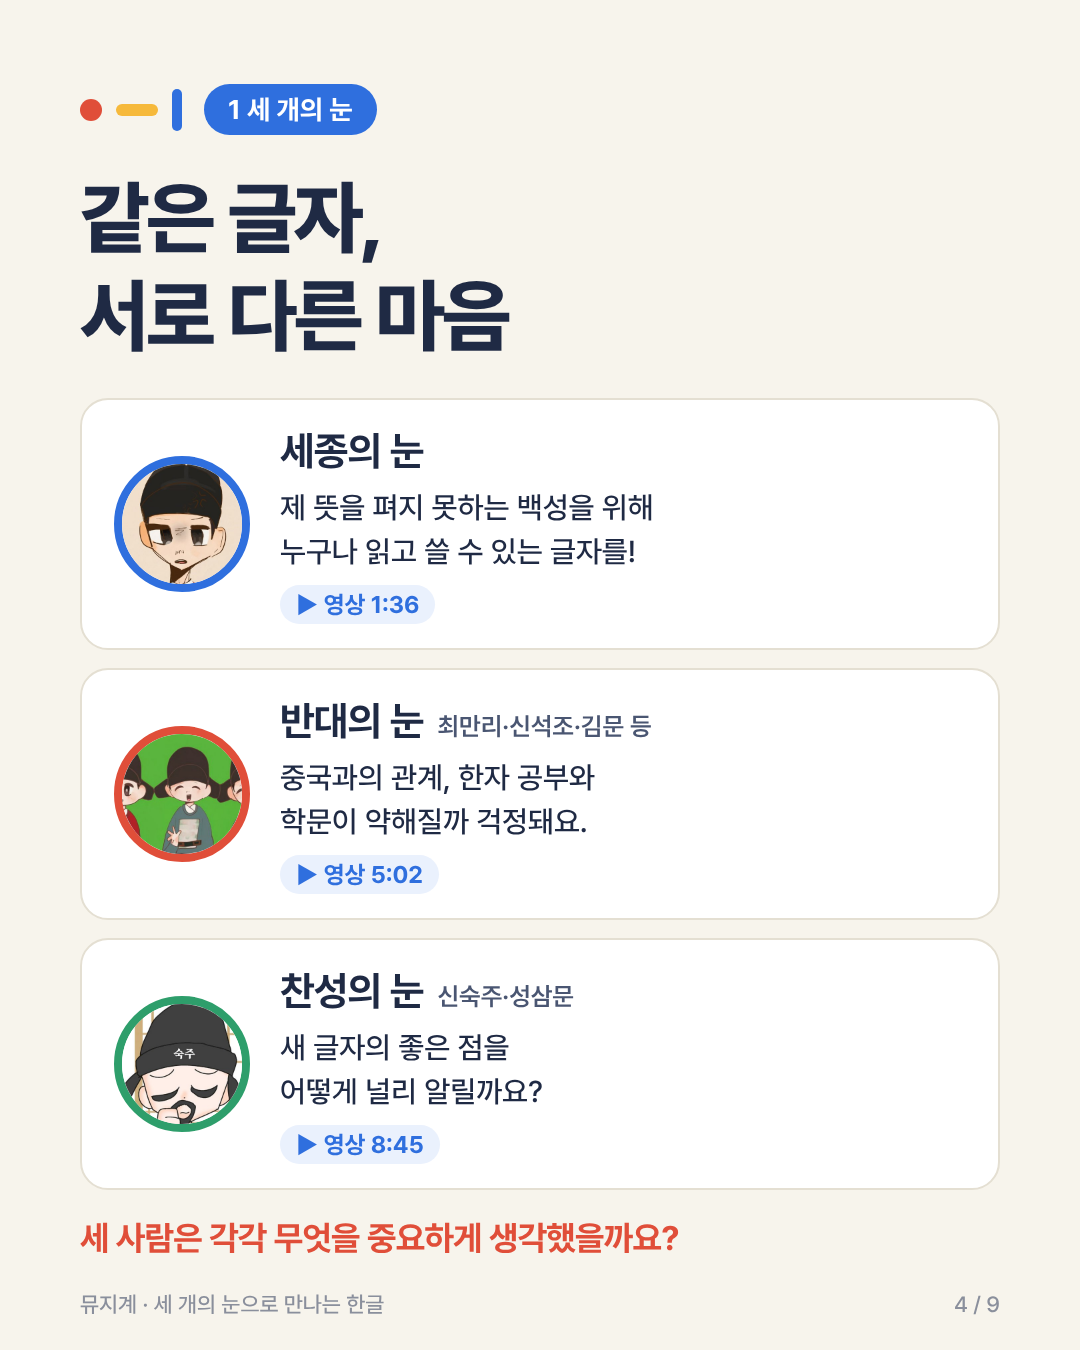
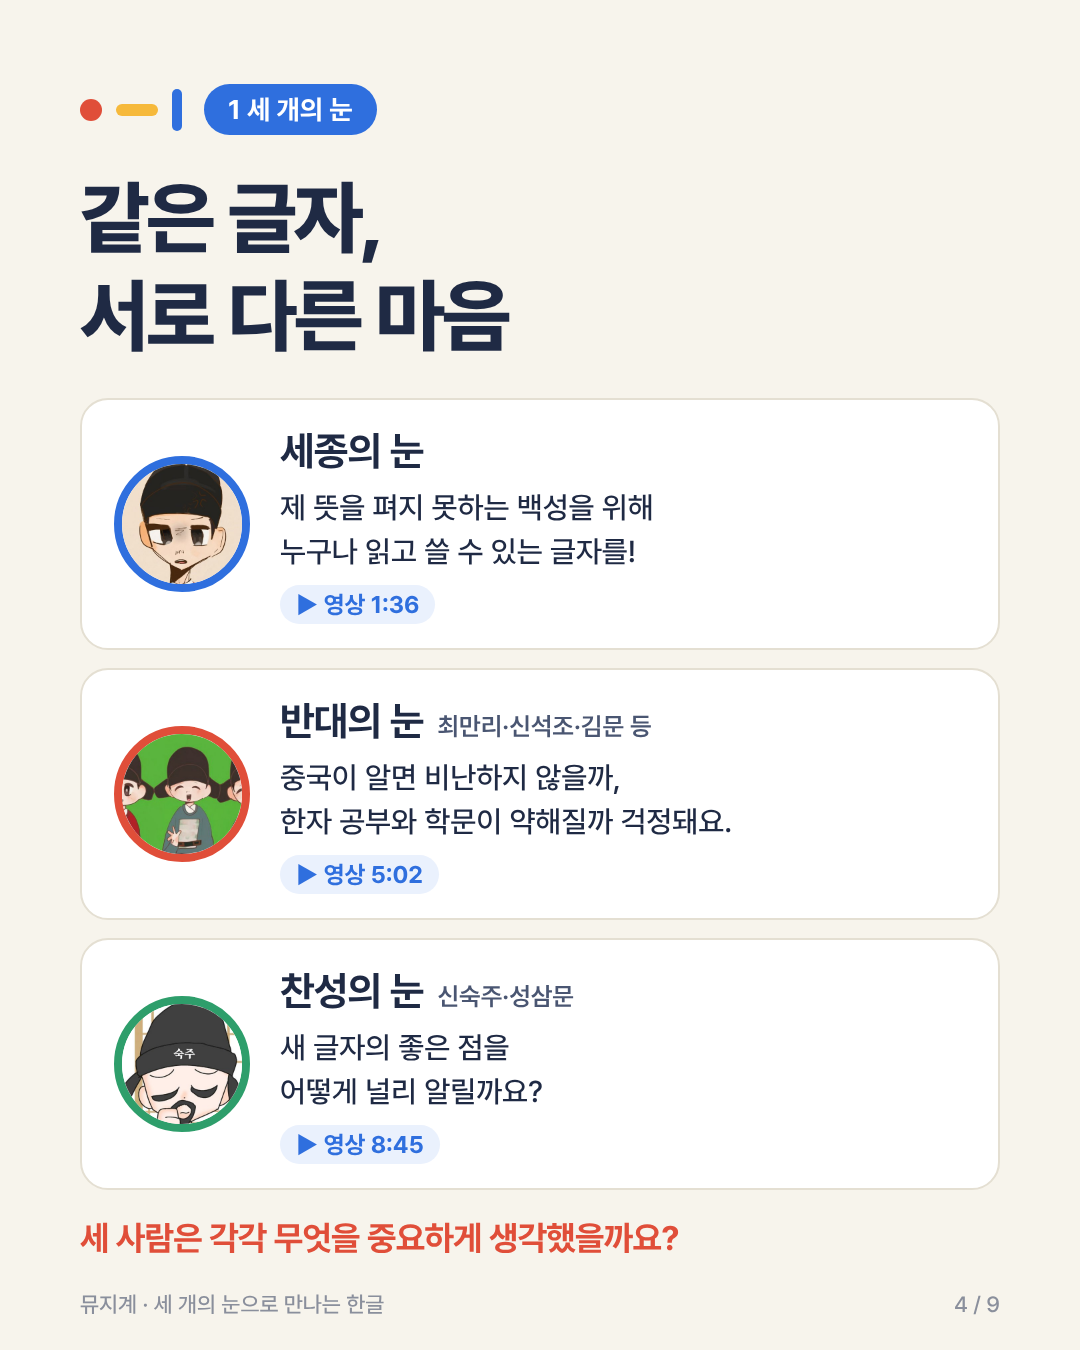
Card news p.4: clarify the 1444 objection about China
The 상소's first point is that China might criticize the new script as
contrary to 事大慕華, not a vague "relationship with China". Reword to
match the source.

Claude-Session: https://claude.ai/code/session_01Pmh6PhJww4VXSAKX9u9GHE

Changed region(s): [[0.2444, 0.56, 0.6722, 0.6222]]

diff --git a/cardnews/index.html b/cardnews/index.html
@@ -179,7 +179,7 @@ p{margin:0}
 <h1>같은 글자,<br>서로 다른 마음</h1>
 <div class="eyes">
 <div class="box eye"><img src="../img/face_sejong.jpg" alt="그림책 속 세종" style="border-color:var(--blue)"><div><div class="t"><h2>세종의 눈</h2></div><p>제 뜻을 펴지 못하는 백성을 위해<br>누구나 읽고 쓸 수 있는 글자를!</p><span class="tc">▶ 영상 1:36</span></div></div>
-<div class="box eye"><img src="../img/face_opposers.jpg" alt="그림책 속 최만리·신석조·김문" style="border-color:var(--red)"><div><div class="t"><h2>반대의 눈</h2><span class="who">최만리·신석조·김문 등</span></div><p>중국과의 관계, 한자 공부와<br>학문이 약해질까 걱정돼요.</p><span class="tc">▶ 영상 5:02</span></div></div>
+<div class="box eye"><img src="../img/face_opposers.jpg" alt="그림책 속 최만리·신석조·김문" style="border-color:var(--red)"><div><div class="t"><h2>반대의 눈</h2><span class="who">최만리·신석조·김문 등</span></div><p>중국이 알면 비난하지 않을까,<br>한자 공부와 학문이 약해질까 걱정돼요.</p><span class="tc">▶ 영상 5:02</span></div></div>
 <div class="box eye"><img src="../img/face_sukju.jpg" alt="그림책 속 신숙주·성삼문" style="border-color:var(--green)"><div><div class="t"><h2>찬성의 눈</h2><span class="who">신숙주·성삼문</span></div><p>새 글자의 좋은 점을<br>어떻게 널리 알릴까요?</p><span class="tc">▶ 영상 8:45</span></div></div>
 </div>
 <p class="q" style="margin-top:28px;font-size:34px">세 사람은 각각 무엇을 중요하게 생각했을까요?</p>
